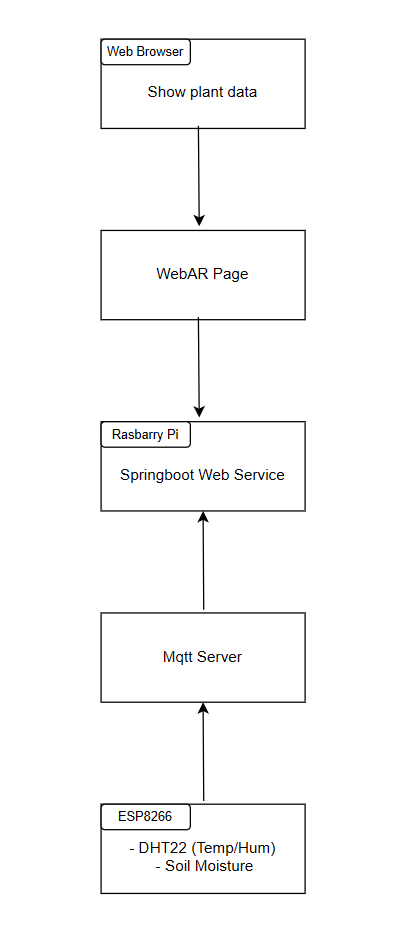
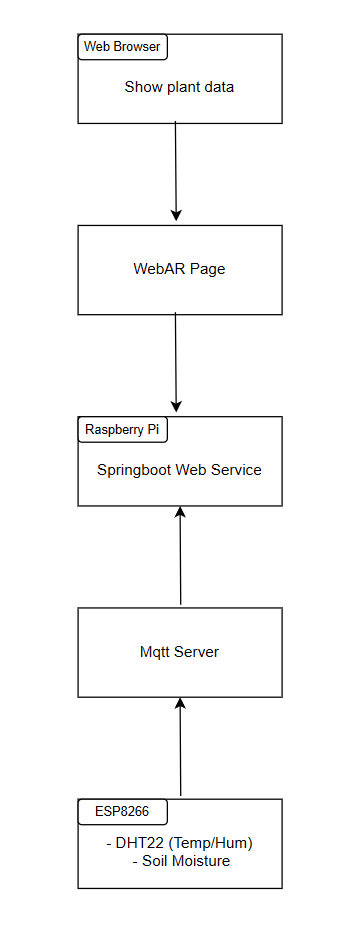
update README file
update README file, modified some text errors.

diff --git a/README.md b/README.md
@@ -6,7 +6,7 @@ Plant Monitor is an intelligent system designed to monitor plant environments, p
 
 
 
-<img src="diagrams/captured.PNG" alt="rendering" style="zoom:25%;" />
+<img src="diagrams/captured.PNG" alt="rendering" style="zoom:50%;" />
 
 
 
@@ -19,31 +19,59 @@ Plant Monitor is an intelligent system designed to monitor plant environments, p
 
 
 
-### Concept Sketches
+### Concept Sketches & System Design
 
 <div style="display: flex; align-items: center">
-    <div class="column" style="float:left;width:25%">
+    <div class="column" style="float:left;width:50%">
 		<img src="diagrams/diagram.PNG" alt="diagram" />
     </div>
     <div class="column" style="float:right; width:75%">
-        1. ESP8266 Sensors:
-		<br>
-        <ul>
-            <li>Using DHT22 temperature and humidity sensor and soil moisture sensor made of two nails for data monitoring.</li>
-            <li>The DHT22 uses digital inputs and the soil moisture sensor uses analog inputs.</li>
-            <li>The collected data is published to mqtt server every 15 seconds via wifi.</li>
-        </ul>
+        <b>Architecture Overview</b>
         <br>
-        2. Mqtt Server
-       	<br>
+    The Plant Monitor system is designed with a distributed architecture, consisting of multiple components that work together to monitor and visualize plant environmental data in real-time. The key components include ESP8266 sensors, an MQTT server, a Raspberry Pi acting as a gateway, and a WebAR webpage.
+        <br><br>
+        <b>Component Description</b>
         <ul>
-            <li>Receive data and will forward it to the Raspberry Pi</li>
-        </ul>
-        <br>
-        3. Rasbarry Pi
-        <br>
-        <ul>
-            <li></li>
+            <li><b>ESP8266 and Sensors:</b>
+                <br>
+                <I>DHT22 Sensor:</I> This sensor is responsible for capturing temperature and humidity data from the plant environment.
+                <br>
+                <I>Soil Moisture Sensor:</I> It measures the soil's moisture content.</li>
+            	<I>Communication:</I> ESP8266 devices are equipped with Wi-Fi capabilities to connect to the MQTT server and use MQTT protocol for data transmission.
+            <li><b>MQTT Server</b>
+            <br>
+            <I>Role:</I> The MQTT server serves as a central hub for data exchange. It facilitates communication between ESP8266 sensors and the Raspberry Pi gateway.
+            <br>
+            <I>Data Handling:</I> The server receives and publishes sensor data to the appropriate topics, enabling real-time data distribution.</li>
+            <li><b>Rasberry Pi</b>
+            <br>
+            <I>Role:</I> The Raspberry Pi serves as a gateway, hosting a Spring Boot-based web service and providing WebAR support.
+            <br>
+            <I>Web Service:</I> It offers WebAR features for users to visualize plant data on their mobile devices.
+            <br>
+            <I>User Access:</I> Users can access the WebAR interface through a web browser on their mobile devices.
+                <br>
+                <I>Communication:</I>Connect to the MQTT server and use SSL protocol for security data transmission.
+            </li>
+            <li><b>Security Considerations</b>
+            <br>
+            Communication between components is secured through encryption and authentication methods, includes using the TLS/SSL protocols.</li>
         </ul>
 </div>
+
+### Naming Conventions
+
+The naming of functions and variables throughout the project uses the camel case.
+
+
+
+### Operational Notes
+
+The code for the ESP8266 has been burned in and will run automatically after the device is powered up.
+
+The springboot-based web service has been packaged as a jar package in the project directory in Raspberry Pi. To start the service, you need to type this command in terminal:
+
+```linux
+sudo java -jar webAR-0.0.1-SNAPSHOT.jar
+```
 
